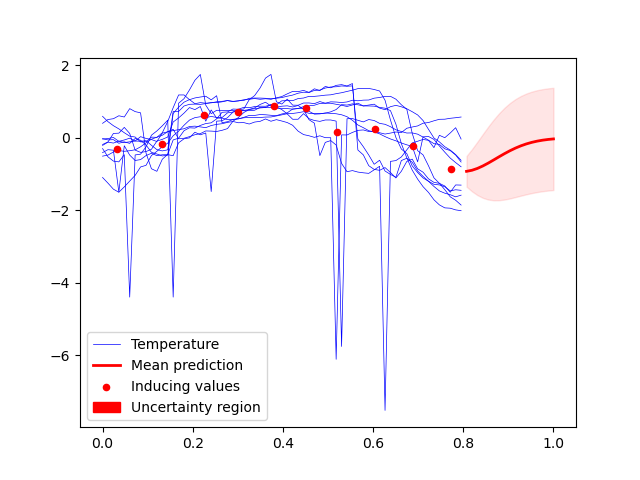
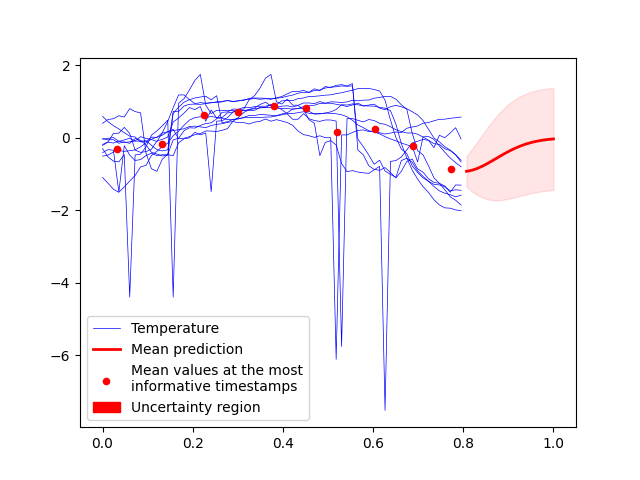
Fix legend in most informative timestamps plot

diff --git a/utils.py b/utils.py
@@ -91,7 +91,7 @@ def plot_motion_codes(X_train, Y_train, test_time_horizon, labels, label_names,
         plt.fill_between(test_time_horizon, mean+2*std, mean-2*std,
             color=COLOR_LIST[(k+1)%num_motion], alpha=0.1, zorder=1)
         Y_test = np.interp(X_m_ks[k], X[0], np.mean(Y, axis=0))
-        plt.scatter(X_m_ks[k], Y_test, color=color, s=20, zorder=2, label='Inducing values')
+        plt.scatter(X_m_ks[k], Y_test, color=color, s=20, zorder=2, label='Mean values at the most\ninformative timestamps')
         handle_list, _ = plt.gca().get_legend_handles_labels()
         handle_list.append(mpatches.Patch(color=COLOR_LIST[(k+1)%num_motion], 
                                           label='Uncertainty region'))
